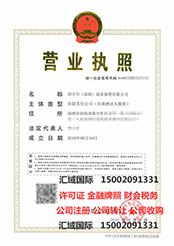
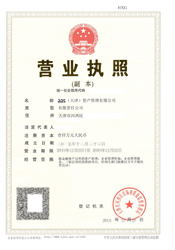
2.0.0

diff --git a/index.html b/index.html
@@ -2142,47 +2142,47 @@
                 </li>
                 <li>
                     <a href="https://static.meiqia.com/dist/standalone.html?_=t&eid=52432" target="_blank">
-                        <img src="jxd1-images/bz1.jpg" alt="">
+                        <img src="jxd1-images/bz2.jpg" alt="">
                     </a>
                 </li>
                 <li>
                     <a href="https://static.meiqia.com/dist/standalone.html?_=t&eid=52432" target="_blank">
-                        <img src="jxd1-images/bz1.jpg" alt="">
+                        <img src="jxd1-images/bz3.JPG" alt="">
                     </a>
                 </li>
                 <li>
                     <a href="https://static.meiqia.com/dist/standalone.html?_=t&eid=52432" target="_blank">
-                        <img src="jxd1-images/bz1.jpg" alt="">
+                        <img src="jxd1-images/bz4.jpg" alt="">
                     </a>
                 </li>
                 <li>
                     <a href="https://static.meiqia.com/dist/standalone.html?_=t&eid=52432" target="_blank">
-                        <img src="jxd1-images/bz1.jpg" alt="">
+                        <img src="jxd1-images/bz5.JPG" alt="">
                     </a>
                 </li>
                 <li>
                     <a href="https://static.meiqia.com/dist/standalone.html?_=t&eid=52432" target="_blank">
-                        <img src="jxd1-images/bz1.jpg" alt="">
+                        <img src="jxd1-images/bz6.JPG" alt="">
                     </a>
                 </li>
                 <li>
                     <a href="https://static.meiqia.com/dist/standalone.html?_=t&eid=52432" target="_blank">
-                        <img src="jxd1-images/bz1.jpg" alt="">
+                        <img src="jxd1-images/bz7.jpg" alt="">
                     </a>
                 </li>
                 <li>
                     <a href="https://static.meiqia.com/dist/standalone.html?_=t&eid=52432" target="_blank">
-                        <img src="jxd1-images/bz1.jpg" alt="">
+                        <img src="jxd1-images/bz8.JPG" alt="">
                     </a>
                 </li>
                 <li>
                     <a href="https://static.meiqia.com/dist/standalone.html?_=t&eid=52432" target="_blank">
-                        <img src="jxd1-images/bz1.jpg" alt="">
+                        <img src="jxd1-images/bz9.JPG" alt="">
                     </a>
                 </li>
                 <li>
                     <a href="https://static.meiqia.com/dist/standalone.html?_=t&eid=52432" target="_blank">
-                        <img src="jxd1-images/bz1.jpg" alt="">
+                        <img src="jxd1-images/bz10.JPG" alt="">
                     </a>
                 </li>
             </ul>
